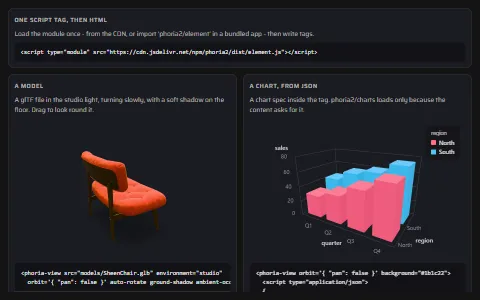
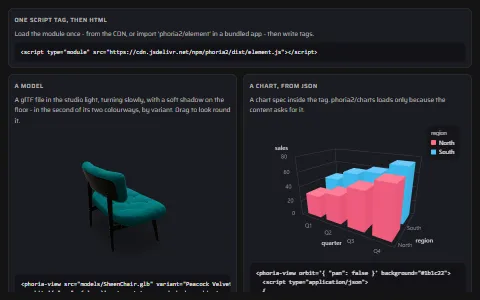
glTF material variants: model.variants and model.variant (KHR_materials_variants), the <phoria-view> variant attribute; the viewer offers the chair's velvets, the custom element page shows one

Changed region(s): [[0.0312, 0.9, 0.5, 0.99], [0.1562, 0.48, 0.3438, 0.81], [0.0625, 0.36, 0.5, 0.39]]

diff --git a/src/gltf/load.js b/src/gltf/load.js
@@ -1,5 +1,5 @@
 // glTF 2.0 (.gltf and .glb) to phoria2 nodes: meshes, the metallic-roughness material and its maps,
-// textures, the node hierarchy, cameras, KHR_lights_punctual and node animations. glTF's
+// textures, the node hierarchy, cameras, KHR_lights_punctual, material variants and node animations. glTF's
 // conventions are phoria2's (+Y up, metres, counter-clockwise front faces, linear colour), so
 // little needs converting.
 import * as quat from '../math/quat.js'
@@ -10,7 +10,7 @@ import { DirectionalLight, PointLight, SpotLight } from '../scene/lights.js'
 import { Geometry } from '../geometry/Geometry.js'
 import { Material } from '../material/Material.js'
 import { Texture } from '../material/Texture.js'
-import { PhoriaError, warnOnce } from '../validate.js'
+import { PhoriaError, describe, warnOnce } from '../validate.js'
 import { Animation } from './Animation.js'
 
 /** @import { Node } from '../scene/Node.js' */
@@ -26,7 +26,8 @@ import { Animation } from './Animation.js'
 
 const SUPPORTED = new Set(['KHR_materials_emissive_strength', 'KHR_texture_transform', 'KHR_lights_punctual',
   'KHR_materials_unlit', 'KHR_mesh_quantization', 'KHR_materials_transmission', 'KHR_materials_clearcoat', 'KHR_materials_sheen',
-  'KHR_materials_ior', 'KHR_materials_specular', 'KHR_materials_anisotropy', 'KHR_materials_diffuse_transmission'])
+  'KHR_materials_ior', 'KHR_materials_specular', 'KHR_materials_anisotropy', 'KHR_materials_diffuse_transmission',
+  'KHR_materials_variants'])
 const COMPRESSION = new Set(['KHR_draco_mesh_compression', 'EXT_meshopt_compression', 'KHR_texture_basisu'])
 
 const COMPONENTS = { SCALAR: 1, VEC2: 2, VEC3: 3, VEC4: 4, MAT2: 4, MAT3: 9, MAT4: 16 }
@@ -35,11 +36,51 @@ const ARRAYS = { 5120: Int8Array, 5121: Uint8Array, 5122: Int16Array, 5123: Uint
 const NORMALIZE = { 5120: 127, 5121: 255, 5122: 32767, 5123: 65535, 5125: 1 }
 const WRAP = { 33071: 'clamp', 33648: 'mirror', 10497: 'repeat' }
 
-/** A loaded glTF scene: a Group, plus the file's animations and cameras. */
+/**
+ * The parts a model's material variants change: each drawable, the material it was made with, and
+ * its material in each variant that names it (by the variant's index).
+ * @typedef {{ node: Drawable, base: Material, materials: Map<number, Material> }} VariantPart
+ */
+/** @type {WeakMap<Model, VariantPart[]>} */
+const VARIANT_PARTS = new WeakMap()
+
+/** A loaded glTF scene: a Group, plus the file's animations, cameras and material variants. */
 export class Model extends Group {
   static type = 'model'
   /** @type {Animation[]} */ animations = []
   /** @type {Camera[]} */ cameras = []
+  /**
+   * The names of the file's material variants (KHR_materials_variants) - its colourways, a
+   * configurator's choices: ['Red leather', 'Blue suede']. Empty when it has none.
+   * @type {string[]}
+   */
+  variants = []
+  /** @type {string | null} */ #variant = null
+
+  /**
+   * The material variant shown, by name - null (the default) for the materials the model was made
+   * with. Setting it swaps the materials of every part the variant names, at once; their textures
+   * loaded with the model.
+   *
+   *     model.variants          // ['Midnight', 'Beach', 'Street']
+   *     model.variant = 'Beach'
+   *
+   * @returns {string | null}
+   */
+  get variant() {
+    return this.#variant
+  }
+
+  set variant(name) {
+    const index = name === null || name === undefined ? -1 : this.variants.indexOf(name)
+    if (index < 0 && name !== null && name !== undefined) {
+      const names = this.variants.map((v) => `'${v}'`).join(', ')
+      warnOnce(this, `no material variant ${describe(name)} - this model has ${names || 'none'}`)
+      return
+    }
+    for (const part of VARIANT_PARTS.get(this) ?? []) part.node.material = part.materials.get(index) ?? part.base
+    this.#variant = index < 0 ? null : /** @type {string} */ (name)
+  }
 
   /**
    * Every mesh, point set and line set in the model - to change them together:
@@ -152,6 +193,7 @@ class Builder {
   /** @type {Map<string, Geometry>} */ #geometries = new Map()
   /** @type {Node[]} */ #nodes = []
   /** @type {string[]} */ #objectUrls = []
+  /** @type {VariantPart[]} */ #variantParts = []
 
   /** @param {Record<string, any>} json @param {Uint8Array | null} bin @param {string} base @param {Model} model */
   constructor(json, bin, base, model) {
@@ -199,6 +241,10 @@ class Builder {
     const scene = json.scenes?.[json.scene ?? 0]
     const roots = scene ? scene.nodes ?? [] : this.#nodes.map((_, i) => i).filter((i) => !this.#nodes[i].parent)
     for (const i of roots) this.model.add(this.#nodes[i])
+    // material variants: their names, and the parts each one changes
+    const variants = json.extensions?.KHR_materials_variants?.variants ?? []
+    this.model.variants = variants.map((/** @type {any} */ v, /** @type {number} */ i) => String(v?.name ?? `variant ${i}`))
+    VARIANT_PARTS.set(this.model, this.#variantParts)
     this.model.animations = (json.animations ?? []).map((a, i) => this.#animation(a, i))
     if (this.model.animations.length) {
       const model = this.model
@@ -251,6 +297,18 @@ class Builder {
       else if (mode === 1 || mode === 2 || mode === 3) node = new Lines({ geometry: lineList(geometry, mode), material: pointMaterial(material) })
       else node = new Mesh({ geometry: mode === 4 ? geometry : triangleList(geometry, mode), material })
       node.name = m.primitives.length > 1 ? `${m.name ?? `mesh ${index}`} ${i}` : m.name ?? `mesh ${index}`
+      // its material in each variant that changes it - made now, so their textures load with the model
+      const mappings = p.extensions?.KHR_materials_variants?.mappings
+      if (Array.isArray(mappings) && mappings.length) {
+        const drawable = /** @type {Drawable} */ (node)
+        /** @type {Map<number, Material>} */
+        const materials = new Map()
+        for (const mapping of mappings) {
+          const made = this.#material(mapping.material)
+          for (const v of mapping.variants ?? []) materials.set(v, mode <= 3 ? pointMaterial(made) : made)
+        }
+        this.#variantParts.push({ node: drawable, base: /** @type {Material} */ (drawable.material), materials })
+      }
       return node
     })
   }

diff --git a/test/models.test.js b/test/models.test.js
@@ -411,3 +411,63 @@ describe('glass and clearcoat from glTF', () => {
     warn.mockRestore()
   })
 })
+
+describe('material variants (KHR_materials_variants)', () => {
+  /** The sample with two more materials and two variants: the triangle red in one, blue in the other. */
+  const withVariants = () => {
+    const json = sampleGLTF()
+    delete json.materials[0].pbrMetallicRoughness.baseColorTexture
+    json.extensionsUsed = [...json.extensionsUsed, 'KHR_materials_variants']
+    json.extensions = { ...json.extensions, KHR_materials_variants: { variants: [{ name: 'Red' }, { name: 'Blue' }] } }
+    json.materials.push({ name: 'Red paint', pbrMetallicRoughness: { baseColorFactor: [1, 0, 0, 1] } }, { name: 'Blue paint', pbrMetallicRoughness: { baseColorFactor: [0, 0, 1, 1] } })
+    json.meshes[0].primitives[0].extensions = { KHR_materials_variants: { mappings: [{ material: 1, variants: [0] }, { material: 2, variants: [1] }] } }
+    return json
+  }
+
+  it('lists the variants, swaps the parts they name, and goes back to the materials it was made with', async () => {
+    const warn = vi.spyOn(console, 'warn').mockImplementation(() => {})
+    const model = await parseGLTF(withVariants(), { waitForTextures: false })
+    const tri = /** @type {Mesh} */ (model.find('Triangle'))
+    const made = tri.material
+    expect(model.variants).toEqual(['Red', 'Blue'])
+    expect(model.variant).toBeNull()
+    model.variant = 'Blue'
+    expect([model.variant, tri.material.name]).toEqual(['Blue', 'Blue paint'])
+    model.variant = 'Red'
+    expect(tri.material.name).toBe('Red paint')
+    model.variant = null
+    expect(tri.material).toBe(made)
+    // supported, so not warned about
+    expect(warn.mock.calls.some(([m]) => /KHR_materials_variants/.test(String(m)))).toBe(false)
+    // a name it doesn't have: said, and nothing changes
+    model.variant = 'Red'
+    model.variant = 'Green'
+    expect(warn.mock.calls.some(([m]) => String(m).includes("no material variant 'Green' - this model has 'Red', 'Blue'"))).toBe(true)
+    expect([model.variant, tri.material.name]).toEqual(['Red', 'Red paint'])
+    warn.mockRestore()
+  })
+
+  it('keeps a part\'s own material in a variant that doesn\'t name it, and a model without variants has none', async () => {
+    const json = withVariants()
+    json.meshes[0].primitives[0].extensions.KHR_materials_variants.mappings = [{ material: 1, variants: [0] }]
+    const model = await parseGLTF(json, { waitForTextures: false })
+    const tri = /** @type {Mesh} */ (model.find('Triangle'))
+    model.variant = 'Blue'
+    expect(tri.material.name).toBe('Paint')
+    const plain = sampleGLTF()
+    delete plain.materials[0].pbrMetallicRoughness.baseColorTexture
+    expect((await parseGLTF(plain, { waitForTextures: false })).variants).toEqual([])
+  })
+
+  it('reads the Khronos sheen chair\'s two velvets', async () => {
+    const warn = vi.spyOn(console, 'warn').mockImplementation(() => {})
+    const model = await parseGLTF(readFileSync(new URL('../public/models/SheenChair.glb', import.meta.url)), { waitForTextures: false })
+    expect(model.variants).toEqual(['Mango Velvet', 'Peacock Velvet'])
+    const fabric = /** @type {Mesh} */ (model.find('SheenChair_fabric'))
+    model.variant = 'Peacock Velvet'
+    expect(fabric.material.name).toBe('fabric Mystere Peacock Velvet')
+    expect(fabric.material.sheen).toBe(1)
+    await new Promise((r) => setTimeout(r, 10))
+    warn.mockRestore()
+  })
+})

diff --git a/demos/viewer.js b/demos/viewer.js
@@ -4,7 +4,8 @@ import { loadGLTF } from 'phoria2/gltf'
 // glTF sample models (see public/models/CREDITS.md) and a Poly Haven studio HDR
 const MODELS = {
   'sci-fi helmet': 'models/DamagedHelmet.glb',
-  // velvet with sheen, occlusion baked onto a second UV set, and tiled, turned wood and fabric
+  // velvet with sheen, occlusion baked onto a second UV set, tiled, turned wood and fabric - and two
+  // colourways, as material variants
   'velvet chair': 'models/SheenChair.glb',
   'milk truck (animated)': 'models/CesiumMilkTruck.glb',
 }
@@ -13,6 +14,7 @@ const HDR = 'hdr/studio_small_09_1k.hdr'
 // A product viewer: a glTF model with its full material maps, lit by an HDR studio that also
 // shows as a soft backdrop, standing on a plinth in the sun's shadow. The chair's occlusion is baked
 // onto its own UV set, as Blender and Unreal export it, apart from the tiling of its fabric and wood.
+// A model with material variants - the chair's velvets - gets a choice of them, as a configurator would.
 export default function run({ canvas, gui, info }) {
   const view = new View({ canvas, orbit: { autoRotate: true }, camera: { position: [2.4, 1.6, 3.2], fov: 35 } })
   const scene = view.scene
@@ -27,7 +29,7 @@ export default function run({ canvas, gui, info }) {
     receiveShadow: true,
   }))
 
-  const settings = { model: Object.keys(MODELS)[0], environment: 'studio HDR', backdrop: true, shadows: true, playing: true, occlusion: true }
+  const settings = { model: Object.keys(MODELS)[0], variant: '', environment: 'studio HDR', backdrop: true, shadows: true, playing: true, occlusion: true }
   /** @type {import('phoria2/gltf').Model | null} */
   let model = null
   let loading = 0
@@ -48,6 +50,12 @@ export default function run({ canvas, gui, info }) {
     bake(model)
     scene.add(model)
     if (settings.playing) model.play()
+    // its variants to choose from, if it has any - shown in the first
+    settings.variant = model.variants[0] ?? ''
+    model.variant = model.variants[0] ?? null
+    bake(model)
+    variants.options(model.variants)
+    variants.root.style.display = model.variants.length ? '' : 'none'
     view.frame(model, { padding: 0.5 })
     const maps = new Set()
     for (const m of model.meshes) for (const [slot] of m.material.textures) maps.add(slot)
@@ -57,9 +65,14 @@ export default function run({ canvas, gui, info }) {
   const bake = (m) => {
     for (const { material } of m.meshes) if (material.aoMap) material.aoMapIntensity = settings.occlusion ? 1 : 0
   }
-  show()
-
   gui.add(settings, 'model', Object.keys(MODELS)).onChange(show)
+  // the model's material variants: all its parts in another colourway at once
+  const variants = gui.add(settings, 'variant', []).onChange((v) => {
+    if (!model) return
+    model.variant = v
+    bake(model)
+  })
+  show()
   gui.add(settings, 'occlusion').name('baked occlusion').onChange(() => model && bake(model))
   gui.add(settings, 'environment', ['studio HDR', 'built-in studio', 'none']).onChange((v) => {
     scene.environment = v === 'studio HDR' ? HDR : v === 'built-in studio' ? 'studio' : 'none'

diff --git a/test/element.test.js b/test/element.test.js
@@ -1,6 +1,7 @@
 // phoria2/element: <phoria-view> on a stand-in page - attributes as View options, the content it
 // loads (inline descriptions, scene URLs, glTF models, charts), changes after it is in the page,
 // and what it says when something is wrong.
+import { Buffer } from 'node:buffer'
 import { afterAll, afterEach, beforeAll, describe, expect, it, vi } from 'vitest'
 import { Mesh, Scene } from '../src/index.js'
 import { fakePage } from './fakes.js'
@@ -180,6 +181,31 @@ describe('in the page', () => {
     expect(fetch).toHaveBeenCalledTimes(2)
     expect(el.scene.find('first')).toBeUndefined()
     expect(el.model?.find('second')).toBeTruthy()
+  })
+
+  it('shows the material variant it names, and changes it live', async () => {
+    // a triangle, red in one variant and blue in the other
+    const positions = Buffer.from(new Float32Array([0, 0, 0, 1, 0, 0, 0, 1, 0]).buffer).toString('base64')
+    const model = {
+      asset: { version: '2.0' }, scenes: [{ nodes: [0] }], scene: 0, nodes: [{ name: 'tri', mesh: 0 }],
+      extensionsUsed: ['KHR_materials_variants'], extensions: { KHR_materials_variants: { variants: [{ name: 'Red' }, { name: 'Blue' }] } },
+      meshes: [{ primitives: [{ attributes: { POSITION: 0 }, material: 0,
+        extensions: { KHR_materials_variants: { mappings: [{ material: 1, variants: [0] }, { material: 2, variants: [1] }] } } }] }],
+      materials: [{ name: 'grey' }, { name: 'red' }, { name: 'blue' }],
+      buffers: [{ byteLength: 36, uri: `data:application/octet-stream;base64,${positions}` }],
+      bufferViews: [{ buffer: 0, byteLength: 36 }],
+      accessors: [{ bufferView: 0, componentType: 5126, count: 3, type: 'VEC3' }],
+    }
+    const real = globalThis.fetch
+    vi.spyOn(globalThis, 'fetch').mockImplementation((url) => (String(url).startsWith('data:') ? real(url) : Promise.resolve(new Response(JSON.stringify(model)))))
+    const el = connect(tag({ src: 'tri.gltf', variant: 'Blue' }))
+    await el.ready
+    const tri = el.model.find('tri')
+    expect([el.model.variant, tri.material.name]).toEqual(['Blue', 'blue'])
+    el.setAttribute('variant', 'Red')
+    expect(tri.material.name).toBe('red')
+    el.removeAttribute('variant')
+    expect([el.model.variant, tri.material.name]).toEqual([null, 'grey'])
   })
 
   it('changes a live setting in place, and remakes the view for one that needs it', async () => {

diff --git a/src/element/index.js b/src/element/index.js
@@ -62,7 +62,7 @@ const text = (/** @type {string} */ _name, /** @type {string} */ v) => v
  * How each attribute reaches the view. `option`: the View option it sets when the view is made.
  * `live`: how a change reaches the view already made - without one, a change remakes the view.
  * `scene`: set on the scene (each one the tag loads, too). Content attributes - src, scene,
- * autoplay - are handled by the element.
+ * autoplay, variant - are handled by the element.
  * @type {Record<string, { parse: (name: string, v: string) => any, option?: string, live?: (view: View, v: any) => void, scene?: (scene: Scene, v: any) => void }>}
  */
 const ATTRIBUTES = {
@@ -92,8 +92,8 @@ const ATTRIBUTES = {
   'auto-light': { parse: flag, option: 'autoLight' },
   'reduced-motion': { parse: (name, v) => (v.trim() === 'auto' ? 'auto' : flag(name, v)), option: 'reducedMotion' },
 }
-// what the tag loads
-const CONTENT = ['src', 'scene', 'autoplay']
+// what the tag loads, and what it does with the model: the animation it plays, the material variant it shows
+const CONTENT = ['src', 'scene', 'autoplay', 'variant']
 
 /**
  * The View options a tag's attributes ask for - every value checked on the way, so a mistake names
@@ -220,6 +220,7 @@ export class PhoriaView extends Base {
     try {
       if (CONTENT.includes(name)) {
         if (name === 'autoplay') this.#autoplay()
+        else if (name === 'variant') this.#variant()
         else this.#load()
         return
       }
@@ -320,6 +321,7 @@ export class PhoriaView extends Base {
         if (!current()) return
         this.#model = view.scene.add(model)
         this.#added.push(model)
+        this.#variant()
         this.#autoplay()
       }
       await view.ready
@@ -348,6 +350,14 @@ export class PhoriaView extends Base {
     const which = this.getAttribute('autoplay')
     if (which === null) for (const a of model.animations) a.stop()
     else model.play(which.trim() === '' ? 0 : which)
+  }
+
+  // variant shows one of the model's material variants by name; without it, the materials it was made with
+  #variant() {
+    const model = this.#model
+    if (!model) return
+    const which = this.getAttribute('variant')?.trim()
+    model.variant = which ? which : null
   }
 
   /** @param {string} type @param {Record<string, any>} detail */

diff --git a/demos/panel.js b/demos/panel.js
@@ -98,20 +98,24 @@ class NumberController extends Controller {
 class SelectController extends Controller {
   constructor(object, property, options) {
     super(object, property)
-    const entries = Array.isArray(options) ? options.map((o) => [String(o), o]) : Object.entries(options)
-    const select = el('select')
-    for (const [label, value] of entries) {
-      const option = el('option', '', label)
-      option.value = label
-      option.selected = value === object[property]
-      select.append(option)
-    }
+    const select = this.select = el('select')
     select.addEventListener('change', () => {
-      this.setValue(entries.find(([label]) => label === select.value)[1])
+      this.setValue(this.entries.find(([label]) => label === select.value)[1])
     })
     this.root.append(this.label, select)
-    this.select = select
-    this.entries = entries
+    this.options(options)
+  }
+
+  // the choices, given anew - as lil-gui's options(), though this keeps the same controller
+  options(options) {
+    this.entries = Array.isArray(options) ? options.map((o) => [String(o), o]) : Object.entries(options)
+    this.select.replaceChildren(...this.entries.map(([label, value]) => {
+      const option = el('option', '', label)
+      option.value = label
+      option.selected = value === this.object[this.property]
+      return option
+    }))
+    return this
   }
 
   updateDisplay() {

diff --git a/demos/custom-element.js b/demos/custom-element.js
@@ -10,8 +10,8 @@ const CDN = '<script type="module" src="https://cdn.jsdelivr.net/npm/phoria2/dis
 const EXAMPLES = [
   {
     title: 'A model',
-    note: 'A glTF file in the studio light, turning slowly, with a soft shadow on the floor. Drag to look round it.',
-    html: `<phoria-view src="models/SheenChair.glb" environment="studio"
+    note: 'A glTF file in the studio light, with a soft shadow - in the second of its two colour variants. Drag to look round it.',
+    html: `<phoria-view src="models/SheenChair.glb" variant="Peacock Velvet" environment="studio"
   orbit='{ "pan": false }' auto-rotate ground-shadow ambient-occlusion></phoria-view>`,
   },
   {
